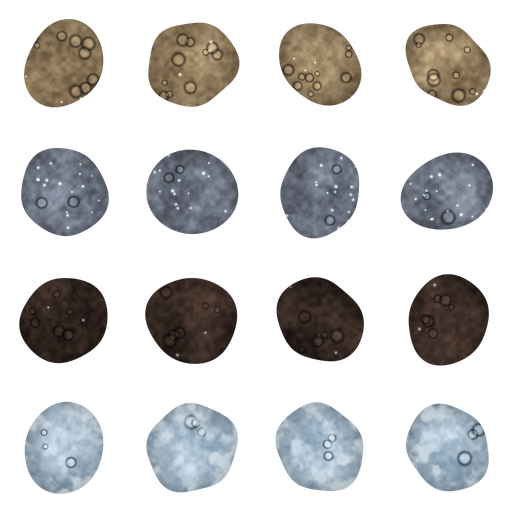
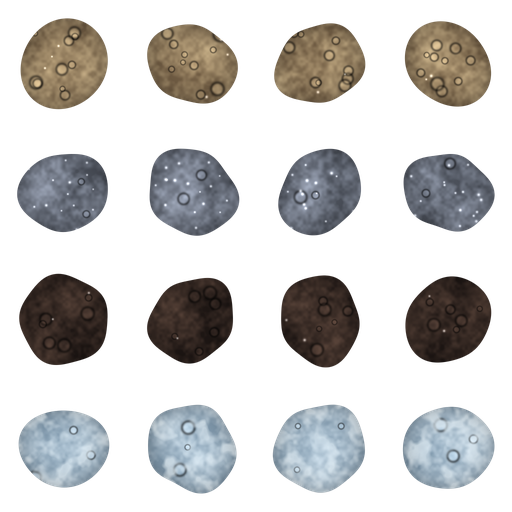
Облик гальки по составу, пыль рядом с галькой мельче (0.22)
- своя текстура гальки для каждого типа тела: каменная, металлическая,
  углистая, ледяная, хондрит; смена типа — плавный переход
- на этапе «Галька» пылинки рисуются мельче, камера чуть ближе
- баланс пересчитан под новый масштаб (~20 мин до «Валуна»)

Claude-Session: https://claude.ai/code/session_019JT9H9Z6HgHqYWpXn3DgRx

diff --git a/tools/gen_pebbles.py b/tools/gen_pebbles.py
@@ -1,6 +1,7 @@
 """Текстуры гальки.
 
-assets/player/player_pebble.png — галька игрока (оттенки серого, цвет по составу задаёт игра)
+assets/player/pebble_<тип>.png  — галька игрока, свой облик для каждого типа тела
+                                  (каменная, металлическая, углистая, ледяная, хондрит)
 assets/pebbles/pebble_atlas.png — чужие гальки: строки — материалы (силикаты, металл,
                                   углерод, лёд), столбцы — 4 формы; клетка 128×128
 
@@ -34,7 +35,7 @@ def fbm(rng, size, base=4, octaves=5):
     return out / total
 
 
-def pebble(rng, size, palette, radius=0.36, chondrules=8, metal_specks=0, frost=0.0):
+def pebble(rng, size, palette, radius=0.36, chondrules=8, metal_specks=0, frost=0.0, sheen=0.0, cracks=0):
     """palette: (тёмный, светлый) цвет основы. Возвращает RGBA float."""
     yy, xx = (np.mgrid[0:size, 0:size] + 0.5) / size - 0.5
     # Неровный, но гладкий контур: эллипс с плавными буграми.
@@ -69,6 +70,19 @@ def pebble(rng, size, palette, radius=0.36, chondrules=8, metal_specks=0, frost=
         cx, cy = rng.uniform(-0.3, 0.3, 2)
         dd = np.sqrt((xx - cx) ** 2 + (yy - cy) ** 2)
         rgb += np.exp(-(dd / rng.uniform(0.006, 0.012)) ** 2)[..., None] * 0.6
+    # Металл: полосы отражений (видманштеттенова решётка на срезе железного метеорита).
+    if sheen > 0:
+        for a in rng.uniform(0, np.pi, 3):
+            band = np.sin((xx * np.cos(a) + yy * np.sin(a)) * rng.uniform(60, 90) + rng.uniform(0, 6.28))
+            rgb += (np.clip(band, 0.85, 1.0) - 0.85)[..., None] * sheen * fbm(rng, size, 4, 2)[..., None] * 2.0
+    # Углистое вещество: тонкие светлые прожилки (следы воды в старом теле).
+    for _ in range(cracks):
+        cx, cy = rng.uniform(-0.25, 0.25, 2)
+        a = rng.uniform(0, np.pi)
+        along = (xx - cx) * np.cos(a) + (yy - cy) * np.sin(a)
+        across = -(xx - cx) * np.sin(a) + (yy - cy) * np.cos(a) + 0.006 * np.sin(along * 30)
+        line = np.exp(-(across / 0.004) ** 2) * np.exp(-(along / rng.uniform(0.08, 0.16)) ** 2)
+        rgb += line[..., None] * np.array([0.35, 0.3, 0.26])[None, None]
     # Иней: светлые кристаллики по краю и пятнами.
     if frost > 0:
         f = fbm(rng, size, 10, 3)
@@ -87,10 +101,17 @@ def to_img(a):
 
 def main():
     rng = np.random.default_rng(7)
-    # Галька игрока: серая, цвет придёт из состава тела.
-    player = pebble(rng, 512, ((0.42, 0.42, 0.42), (0.95, 0.95, 0.95)), chondrules=14, metal_specks=10)
-    out = ROOT / "assets" / "player" / "player_pebble.png"
-    to_img(player).resize((256, 256), Image.LANCZOS).save(out)
+    # Галька игрока: облик зависит от типа тела.
+    bodies = {
+        "chondrite": dict(palette=((0.42, 0.38, 0.33), (0.92, 0.88, 0.8)), chondrules=22, metal_specks=12),
+        "silicate": dict(palette=((0.5, 0.4, 0.29), (0.98, 0.86, 0.66)), chondrules=8, metal_specks=3),
+        "metal": dict(palette=((0.36, 0.39, 0.45), (0.8, 0.84, 0.92)), chondrules=0, metal_specks=26, sheen=0.5),
+        "carbon": dict(palette=((0.2, 0.16, 0.14), (0.56, 0.46, 0.4)), chondrules=4, metal_specks=2, cracks=7),
+        "ice": dict(palette=((0.55, 0.68, 0.8), (0.93, 0.98, 1.0)), chondrules=2, frost=1.0),
+    }
+    for key, kw in bodies.items():
+        img = pebble(np.random.default_rng(11), 512, **kw)
+        to_img(img).resize((256, 256), Image.LANCZOS).save(ROOT / "assets" / "player" / f"pebble_{key}.png")
 
     palettes = {
         "silicate": dict(palette=((0.45, 0.37, 0.27), (0.9, 0.8, 0.62)), chondrules=10, metal_specks=3),
